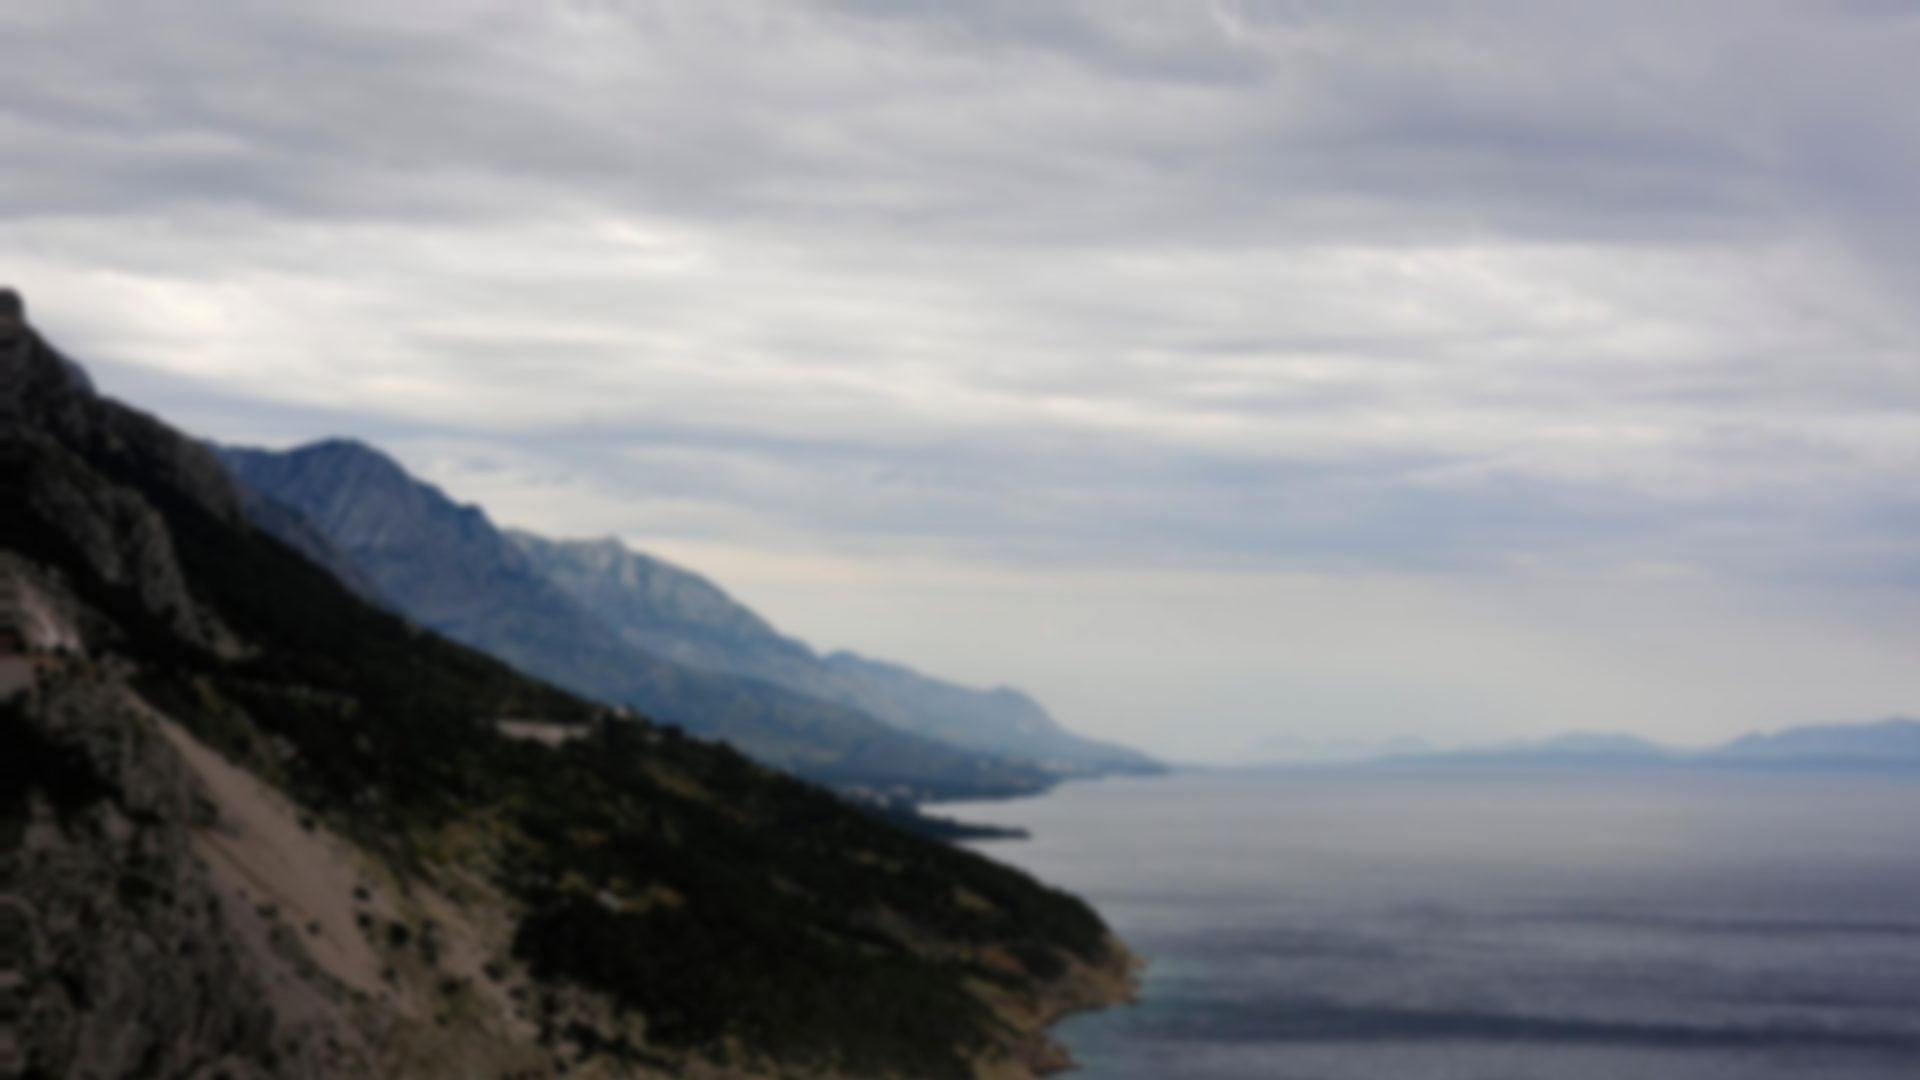
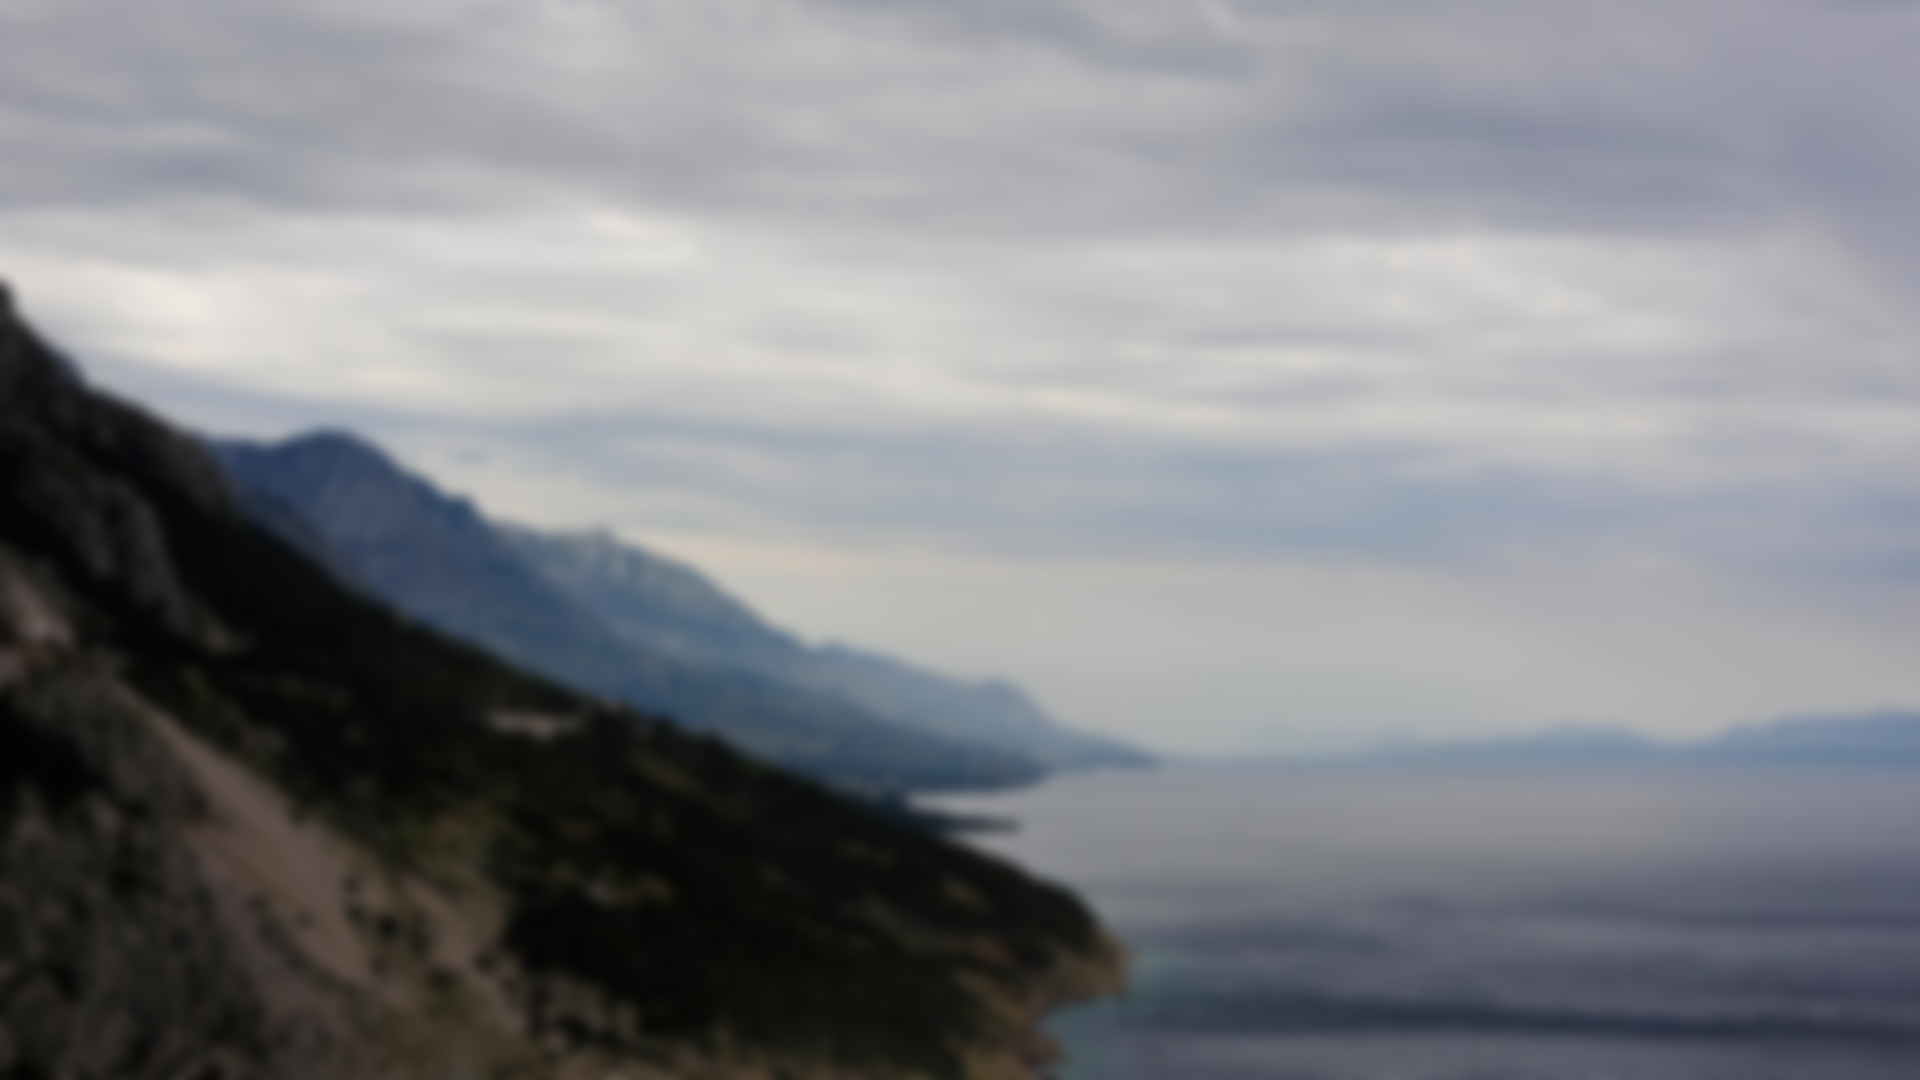
code cleanup

diff --git a/p5/gaussian_blur/gaussian-blur.js b/p5/gaussian_blur/gaussian-blur.js
@@ -43,8 +43,8 @@ function calculateResizeCanvas() {
     let parent = canvas.elt.parentElement;
     let maxWidth = parent.offsetWidth;
     let maxHeight = parent.offsetHeight;
-
-    if (inputImg) {
+    
+    if (inputImg){
         let imgRatio = inputImg.width / inputImg.height;
         if (maxWidth >= inputImg.width && maxHeight >= inputImg.height) resizeCanvas(inputImg.width, inputImg.height);
         else {
@@ -64,13 +64,31 @@ function windowResized() {
 let kernelRadius = 1;
 let kernelSize;
 let kernel = [];
-let kernelVal = 0;
+let sum;
+let a = 0;
 
 function generateKernel() {
-    kernelRadius = document.getElementById('radius-slider').value;
+    kernelRadius = parseInt(document.getElementById('radius-slider').value);
     kernelSize = kernelRadius * 2 + 1;
-    kernel = new Array(kernelSize).fill(new Array(kernelSize).fill(1));
-    kernelVal = kernelSize * kernelSize;
+    kernel = [];
+    sum = 0;
+    let sigma = max(kernelRadius / 2, 1);
+
+    for (let i = -kernelRadius; i < kernelRadius + 1; i++) {
+        kernel[i + kernelRadius] = [];
+        for (let j = -kernelRadius; j < kernelRadius + 1; j++) {
+            let expNumerator = -(i * i + j * j);
+            let expDenominator = 2 * sigma * sigma;
+            let eExp = Math.exp(expNumerator / expDenominator);
+            let kernelVal = eExp / (2 * PI * sigma * sigma);
+            kernel[i + kernelRadius][j + kernelRadius] = kernelVal;
+            sum += kernelVal;
+        }
+    }
+    for (let i = 0; i < kernelSize; i++)
+        for (let j = 0; j < kernelSize; j++)
+            kernel[i][j] /= sum;
+
 }
 
 let w;
@@ -111,11 +129,13 @@ function processFilter() {
         }
 
         let index = (i + j * w) * 4;
-        outputImg.pixels[index] = sumR / kernelVal;
-        outputImg.pixels[index + 1] = sumG / kernelVal;
-        outputImg.pixels[index + 2] = sumB / kernelVal;
-        outputImg.pixels[index + 3] = sumA / kernelVal;
+        let a = 1;
+        outputImg.pixels[index] = sumR / a;
+        outputImg.pixels[index + 1] = sumG / a;
+        outputImg.pixels[index + 2] = sumB / a;
+        outputImg.pixels[index + 3] = sumA / a;
     }
+
     j++;
     if (j < h) setTimeout(processFilter, 0);
     else {
@@ -129,7 +149,6 @@ function processFilter() {
         document.getElementById('file-input').disabled = false;
         document.getElementById('input-overlay').classList.remove('overlay-show');
         document.getElementById('notification').classList.add('notification-show');
-
     }
 }
 

diff --git a/p5/gaussian_blur/index.html b/p5/gaussian_blur/index.html
@@ -5,12 +5,12 @@
     <meta charset="UTF-8">
     <meta http-equiv="X-UA-Compatible" content="IE=edge">
     <meta name="viewport" content="width=device-width, initial-scale=1.0">
-    <title>Median Blur</title>
+    <title>Gaussian Blur</title>
     <link rel="stylesheet" type="text/css" href="../bootstrap-5.0.1/css/bootstrap.min.css">
     <link rel="stylesheet" type="text/css" href="style.css">
     <script type="text/javascript" src="../bootstrap-5.0.1/js/bootstrap.min.js"></script>
     <script type="text/javascript" src="../p5.min.js"></script>
-    <script type="text/javascript" src="median-blur.js"></script>
+    <script type="text/javascript" src="gaussian-blur.js"></script>
 </head>
 
 <body>
@@ -58,8 +58,8 @@
                 </div>
                 <div class="side-bar col-lg-4 column">
                     <div class="description-container">
-                        <h1>Median Blur</h1>
-                        <p>Median (or box) blur implementation using kernel convolution and <a href="https://p5js.org/"
+                        <h1>Gaussian Blur</h1>
+                        <p>Gaussian blur implementation using kernel convolution and <a href="https://p5js.org/"
                                 target="_blank" rel="noreferrer noopener">p5.js</a>.</p>
                         <p>Upload an image and use the slider to change the filter radius. You can download the result
                             once the image is processed.</p>
